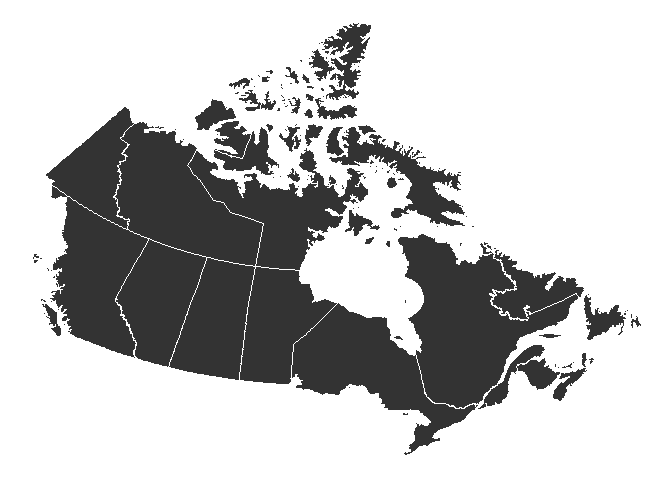
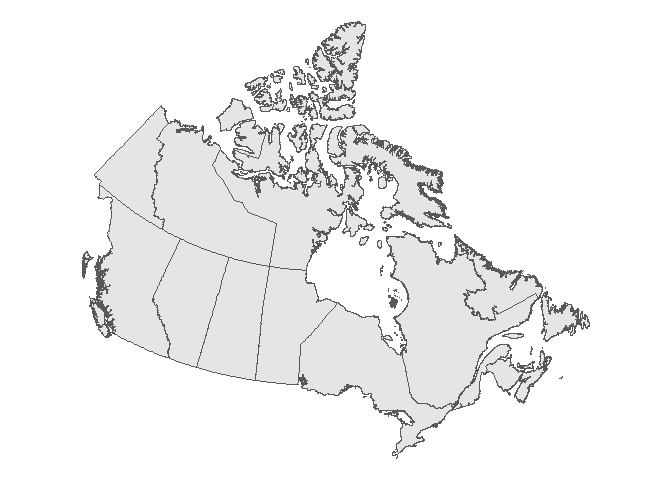
Knitted updated README

diff --git a/README.md b/README.md
@@ -35,35 +35,61 @@ functions.
 library(ggplot2)
 ```
 
+### From original shapefiles
+
+``` r
+province_territory_map_original_sp <- sf::read_sf(
+  dsn = here::here("statcan_files", "province_territory_map"), 
+  layer = "lpr_000b16a_e"
+)
+
+p_original <- ggplot(
+  data = province_territory_map_original_sp
+) + 
+  geom_sf() + 
+  theme_void()
+
+system.time(
+  plot(p_original)  
+)
+```
+
+<img src="README_files/figure-gfm/original_shapefile_plot-1.png" width="100%" />
+
+    ##    user  system elapsed 
+    ##    2.72    4.75    7.62
+
 ### From shapefiles
 
 ``` r
-province_territory_map_sim_sp <- rgdal::readOGR(dsn = here::here("exported_files", "province_territory_simplified_sp"), 
-                                                layer = "province_territory_simplified_sp",
-                                                use_iconv = TRUE)
-```
+province_territory_map_sim_sp <- sf::read_sf(
+  dsn = here::here("exported_files", "province_territory_simplified_sp"), 
+  layer = "province_territory_simplified_sp"
+)
 
-    ## OGR data source with driver: ESRI Shapefile 
-    ## Source: "Z:\documents\github\canada_maps\exported_files\province_territory_simplified_sp", layer: "province_territory_simplified_sp"
-    ## with 13 features
-    ## It has 6 fields
-
-``` r
-ggplot(data = province_territory_map_sim_sp,
-       mapping = aes(x = long, y = lat, group = group)) + 
-  geom_polygon(colour = "white") + 
+p_sim_sp <- ggplot(
+  data = province_territory_map_sim_sp
+) + 
+  geom_sf() + 
   theme_void()
-```
 
-    ## Regions defined for each Polygons
+system.time(
+  plot(p_sim_sp)
+)
+```
 
 <img src="README_files/figure-gfm/shapefile_plot-1.png" width="100%" />
+
+    ##    user  system elapsed 
+    ##    0.22    0.36    0.62
 
 ### From GeoJSON files
 
 ``` r
-province_territory_map_sim_json <- geojsonio::geojson_read(here::here("exported_files", "province_territory_simplified.geojson"),
-                                                           what = "sp")
+province_territory_map_sim_json <- geojsonio::geojson_read(
+  x = here::here("exported_files", "province_territory_simplified.geojson"),
+  what = "sp"
+)
 ```
 
     ## Registered S3 method overwritten by 'geojsonsf':
@@ -71,15 +97,36 @@ province_territory_map_sim_json <- geojsonio::geojson_read(here::here("exported_
     ##   print.geojson geojson
 
 ``` r
-ggplot(data = province_territory_map_sim_json,
-       mapping = aes(x = long, y = lat, group = group)) + 
-  geom_polygon(colour = "white") + 
+p_sim_json <- ggplot(
+  data = province_territory_map_sim_json,
+  mapping = aes(x = long, y = lat, group = group)
+) + 
+  geom_polygon(
+    colour = "white"
+  ) + 
   theme_void()
 ```
 
+    ## Warning: `fortify(<SpatialPolygonsDataFrame>)` was deprecated in ggplot2 3.4.4.
+    ## ℹ Please migrate to sf.
+    ## ℹ The deprecated feature was likely used in the ggplot2 package.
+    ##   Please report the issue at <https://github.com/tidyverse/ggplot2/issues>.
+    ## This warning is displayed once every 8 hours.
+    ## Call `lifecycle::last_lifecycle_warnings()` to see where this warning was
+    ## generated.
+
     ## Regions defined for each Polygons
 
+``` r
+system.time(
+  plot(p_sim_json)
+)
+```
+
 <img src="README_files/figure-gfm/geojson_plot-1.png" width="100%" />
+
+    ##    user  system elapsed 
+    ##    0.13    0.31    0.47
 
 ## Additional notes
 
